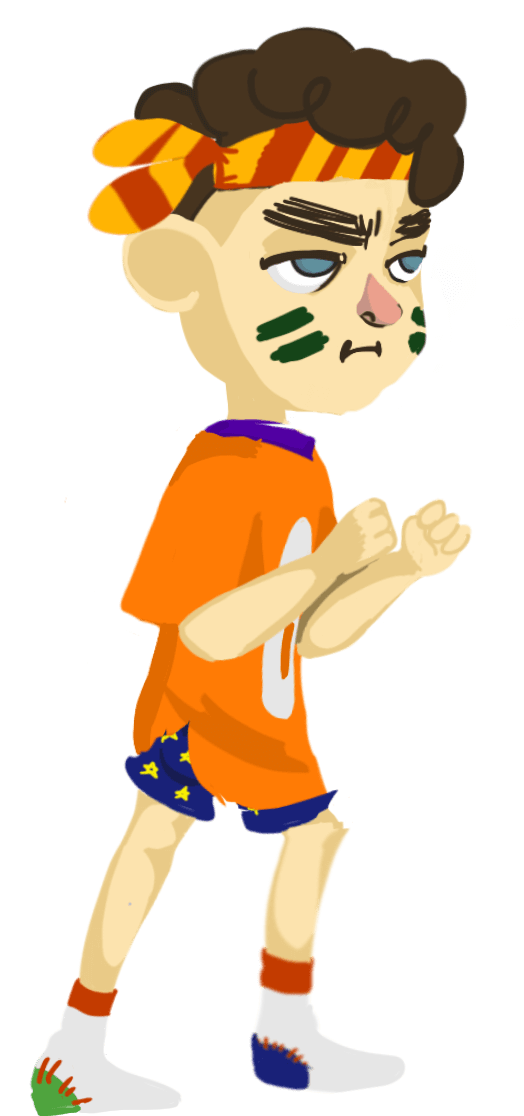
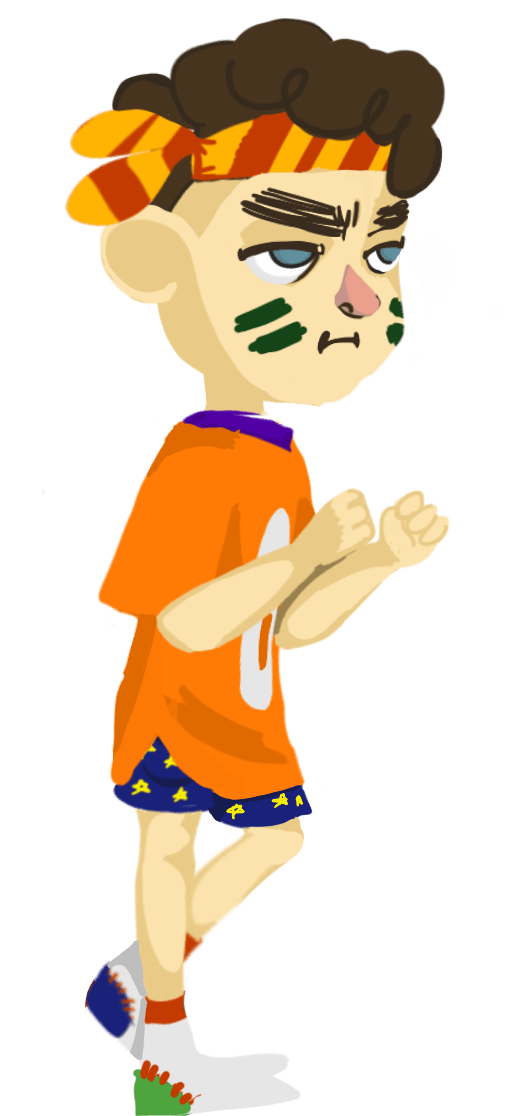
boy block walk anumation add

Changed region(s): [[0.0611, 0.0, 0.916, 1.0], [0.6412, 0.0305, 0.7023, 0.0609]]

diff --git a/core/src/ru/vav/fighting/ResourceManager.java b/core/src/ru/vav/fighting/ResourceManager.java
@@ -12,8 +12,15 @@ public class ResourceManager {
     private ResourceManager() {
         // Animations
         ArrayList<Integer> anim = new ArrayList<Integer>();
+        // boy_idle
         ArrayList<Integer> boyIdle = new ArrayList<Integer>();
         Timeline boyIdleTimeline = new Timeline();
+        // boy_walk
+        ArrayList<Integer> boyWalk = new ArrayList<Integer>();
+        Timeline boyWalkTimeline = new Timeline();
+        // boy_block_walk
+        ArrayList<Integer> boyBlockWalk = new ArrayList<Integer>();
+        Timeline boyBlockWalkTimeline = new Timeline();
 
         // Textures
         // anim
@@ -25,43 +32,53 @@ public class ResourceManager {
         Integer boyIdle1 = TextureManager.getInst().addTexture("boy_idle_1", "boy_idle_1.png");
         Integer boyIdle2 = TextureManager.getInst().addTexture("boy_idle_2", "boy_idle_2.png");
         Integer boyIdle3 = TextureManager.getInst().addTexture("boy_idle_3", "boy_idle_3.png");
+        // boy_walk
+        Integer boyWalk0 = TextureManager.getInst().addTexture("boy_walk_0", "boy_walk_0.png");
+        Integer boyWalk1 = TextureManager.getInst().addTexture("boy_walk_1", "boy_walk_1.png");
+        Integer boyWalk2 = TextureManager.getInst().addTexture("boy_walk_2", "boy_walk_2.png");
+        Integer boyWalk3 = TextureManager.getInst().addTexture("boy_walk_3", "boy_walk_3.png");
+        // boy_block_walk
+        Integer boyBlockWalk0 = TextureManager.getInst().addTexture("boy_block_walk_0", "boy_block_walk_0.png");
+        Integer boyBlockWalk1 = TextureManager.getInst().addTexture("boy_block_walk_1", "boy_block_walk_1.png");
+        Integer boyBlockWalk2 = TextureManager.getInst().addTexture("boy_block_walk_2", "boy_block_walk_2.png");
+        Integer boyBlockWalk3 = TextureManager.getInst().addTexture("boy_block_walk_3", "boy_block_walk_3.png");
 
 
         // Materials
-        MaterialManager.getInst().addAnimatedMaterialByIDs("anim", anim, new Timeline(3, 1));
+//        MaterialManager.getInst().addAnimatedMaterialByIDs("anim", anim, new Timeline(3, 1));
         // boy_idle
+//        boyIdle.add(boyIdle0);
 //        boyIdle.add(boyIdle1);
-//        boyIdle.add(boyIdle1);
-//        boyIdle.add(boyIdle1);
-//        boyIdle.add(boyIdle1);
-//        boyIdle.add(boyIdle1);
-//        boyIdle.add(boyIdle1);
-//        boyIdle.add(boyIdle1);
-//        boyIdle.add(boyIdle1);
-//        boyIdle.add(boyIdle1);
-//        boyIdle.add(boyIdle3);
 //        boyIdle.add(boyIdle2);
-//        boyIdle.add(boyIdle1);
-//        boyIdle.add(boyIdle1);
-//        boyIdle.add(boyIdle1);
-//        boyIdle.add(boyIdle1);
-//        boyIdle.add(boyIdle1);
-//        boyIdle.add(boyIdle1);
-//        boyIdle.add(boyIdle1);
-//        boyIdle.add(boyIdle1);
-//        boyIdle.add(boyIdle1);
-//        boyIdle.add(boyIdle0);
-//        boyIdle.add(boyIdle0);
-        boyIdle.add(boyIdle0);
-        boyIdle.add(boyIdle1);
-        boyIdle.add(boyIdle2);
-        boyIdle.add(boyIdle3);
-        boyIdleTimeline.addFrame(new Timeline.KeyFrame(1, 0.6f));
-        boyIdleTimeline.addFrame(new Timeline.KeyFrame(3, 0.075f));
-        boyIdleTimeline.addFrame(new Timeline.KeyFrame(2, 0.075f));
-        boyIdleTimeline.addFrame(new Timeline.KeyFrame(1, 0.6f));
-        boyIdleTimeline.addFrame(new Timeline.KeyFrame(0, 0.15f));
-        MaterialManager.getInst().addAnimatedMaterialByIDs("boy_idle", boyIdle, boyIdleTimeline);
+//        boyIdle.add(boyIdle3);
+//        boyIdleTimeline.addFrame(new Timeline.KeyFrame(1, 0.6f));
+//        boyIdleTimeline.addFrame(new Timeline.KeyFrame(3, 0.075f));
+//        boyIdleTimeline.addFrame(new Timeline.KeyFrame(2, 0.075f));
+//        boyIdleTimeline.addFrame(new Timeline.KeyFrame(1, 0.6f));
+//        boyIdleTimeline.addFrame(new Timeline.KeyFrame(0, 0.15f));
+//        MaterialManager.getInst().addAnimatedMaterialByIDs("boy_idle", boyIdle, boyIdleTimeline);
+        // boy_walk
+//        boyWalk.add(boyWalk0);
+//        boyWalk.add(boyWalk1);
+//        boyWalk.add(boyWalk2);
+//        boyWalk.add(boyWalk3);
+//        boyWalkTimeline.addFrame(new Timeline.KeyFrame(0, 0.2f));
+//        boyWalkTimeline.addFrame(new Timeline.KeyFrame(1, 0.2f));
+//        boyWalkTimeline.addFrame(new Timeline.KeyFrame(2, 0.2f));
+//        boyWalkTimeline.addFrame(new Timeline.KeyFrame(3, 0.2f));
+//        MaterialManager.getInst().addAnimatedMaterialByIDs("boy_walk", boyWalk, boyWalkTimeline);
+        // boy_walk
+        boyBlockWalk.add(boyBlockWalk0);
+        boyBlockWalk.add(boyBlockWalk1);
+        boyBlockWalk.add(boyBlockWalk2);
+        boyBlockWalk.add(boyBlockWalk3);
+        boyBlockWalkTimeline.addFrame(new Timeline.KeyFrame(0, 0.2f));
+        boyBlockWalkTimeline.addFrame(new Timeline.KeyFrame(1, 0.2f));
+        boyBlockWalkTimeline.addFrame(new Timeline.KeyFrame(2, 0.2f));
+        boyBlockWalkTimeline.addFrame(new Timeline.KeyFrame(3, 0.2f));
+        boyBlockWalkTimeline.addFrame(new Timeline.KeyFrame(2, 0.2f));
+        boyBlockWalkTimeline.addFrame(new Timeline.KeyFrame(1, 0.2f));
+        MaterialManager.getInst().addAnimatedMaterialByIDs("boy_block_walk", boyBlockWalk, boyBlockWalkTimeline);
     }
 
     public static ResourceManager getInst() {
